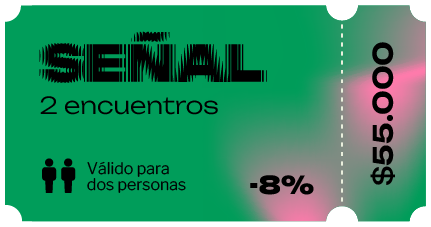
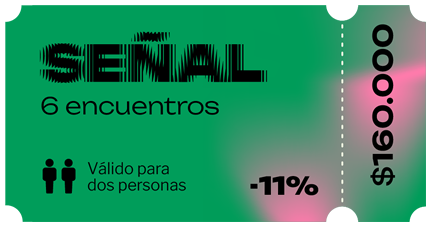
updste add tickets

diff --git a/src/componentes/Section5.js b/src/componentes/Section5.js
@@ -76,7 +76,7 @@ function Section({ minHeight }) {
 
         <div className="w-full">
           <div className="grid sd:grid-cols-1 sd:grid-cols-1 lg:grid-cols-2 gap-x-20 gap-y-0  sm:py-3 sm:px-20 sm:mx-20">
-            <div className="p-4 text-center">
+          <div className="p-4 text-center">
               <a
                 href="https://tickets.xn--viveseal-i3a.cl/producto/ticket-10-encuentros-2/"
                 target="_blank"
@@ -84,7 +84,7 @@ function Section({ minHeight }) {
               >
                 <img
                   className=""
-                  src="./images/ticketRosa.png"
+                  src="./images/ticket1.png"
                   alt="imagen de fondo"
                   style={{
                     width: "100%",
@@ -100,7 +100,7 @@ function Section({ minHeight }) {
                     </span>
                     <div className="text-black  font-unbounded  ml-2 font-normal text-left text-xs sd:text-xl md:text-xl lg:text-xl xl:text-xl ">
                     Acceso para dos personas a{" "}
-                      <span className="font-bold">3 encuentros</span> SEÑAL consecutivos.
+                      <span className="font-bold">programa completo</span> SEÑAL.
                     </div>
                   </div>
                   <div className="flex items-start">
@@ -108,13 +108,24 @@ function Section({ minHeight }) {
                       <MdTripOrigin />
                     </span>
                     <div className="text-black  font-unbounded  ml-2 font-normal text-left text-xs sd:text-xl md:text-xl lg:text-xl xl:text-xl ">
-                      <span className="font-bold">Visitas Antenna</span>{" "}
-                      seleccionadas.
+                   {" "}
+                      <span className="font-bold"> Visitas Antenna</span> seleccionadas.
                     </div>
-                  </div>
+                  </div>                  
+                  <div className="flex items-start">
+                    <span className="material-icons w-3 h-3  mt-0 sd:w-6 sd:h-6  md:w-6 md:h-6  lg:w-6 lg:h-6  xl:w-6 sd:mt-1.5 md:mt-1.5 lg:mt-1.5 xl:mt-1.5 xl:h-6 text-pink-400">
+                      <MdTripOrigin />
+                    </span>
+                    <div className="text-black  font-unbounded  ml-2 font-normal text-left text-xs sd:text-xl md:text-xl lg:text-xl xl:text-xl ">
+                    Acceso a {" "}
+                      <span className="font-bold">fiesta aniversario SEÑAL</span>.
+                    </div>
+                  </div>                 
                 </div>
               </div>
             </div>
+
+
             <div className="p-4 text-center">
               <a
                 href="https://tickets.xn--viveseal-i3a.cl/producto/ticket-6-encuentros/"
@@ -138,13 +149,57 @@ function Section({ minHeight }) {
                       <MdTripOrigin />
                     </span>
                     <div className="text-black  font-unbounded  ml-2 font-normal text-left text-xs sd:text-xl md:text-xl lg:text-xl xl:text-xl ">
-                    Acceso para dos personas a <span className="font-bold">2 encuentros</span>{" "} SEÑAL consecutivos.
+                    Acceso para dos personas a <span className="font-bold">6 encuentros</span>{" "} SEÑAL consecutivos.
                     
                     </div>
                   </div>
                 </div>
+
+                <div className="flex items-start">
+                    <span className="material-icons w-3 h-3  mt-0 sd:w-6 sd:h-6  md:w-6 md:h-6  lg:w-6 lg:h-6  xl:w-6 sd:mt-1.5 md:mt-1.5 lg:mt-1.5 xl:mt-1.5 xl:h-6 text-green-700">
+                      <MdTripOrigin />
+                    </span>
+                    <div className="text-black  font-unbounded  ml-2 font-normal text-left text-xs sd:text-xl md:text-xl lg:text-xl xl:text-xl ">
+                   {" "}
+                      <span className="font-bold"> Visitas Antenna</span> seleccionadas.
+                    </div>
+                  </div>  
+
               </div>
             </div>
+
+            <div className="p-4 text-center">
+              <a
+                href="https://tickets.xn--viveseal-i3a.cl/producto/ticket-10-encuentros-2/"
+                target="_blank"
+                alt="" rel="noreferrer"
+              >
+                <img
+                  className=""
+                  src="./images/ticketRosa.png"
+                  alt="imagen de fondo"
+                  style={{
+                    width: "100%",
+                    height: "auto",
+                  }}
+                />
+              </a>
+              <div>
+                <div className="grid grid-cols-1 gap-4 mx-1 my-1">
+                  <div className="flex items-start">
+                    <span className="material-icons w-3 h-3  mt-0 sd:w-6 sd:h-6  md:w-6 md:h-6  lg:w-6 lg:h-6  xl:w-6 sd:mt-1.5 md:mt-1.5 lg:mt-1.5 xl:mt-1.5 xl:h-6 text-[#4db0b0]">
+                      <MdTripOrigin />
+                    </span>
+                    <div className="text-black  font-unbounded  ml-2 font-normal text-left text-xs sd:text-xl md:text-xl lg:text-xl xl:text-xl ">
+                    Acceso para dos personas a{" "}
+                      <span className="font-bold">3 encuentros</span> SEÑAL consecutivos.
+                    </div>
+                  </div>
+                 
+                </div>
+              </div>
+            </div>
+
             <div className="p-4 text-center">
               <a
                 href="https://tickets.xn--viveseal-i3a.cl/producto/ticket-3-encuentros/"
@@ -181,6 +236,9 @@ function Section({ minHeight }) {
                 </div>
               </div>
             </div>
+
+
+            
             <div className="p-4 text-center">
               <a
                 href="https://tickets.xn--viveseal-i3a.cl/producto/ticket-1-encuentro/"

diff --git a/src/componentes/Section3.js b/src/componentes/Section3.js
@@ -118,7 +118,7 @@ function Section({ minHeight }) {
                 Descubre a dos artistas de distintas generaciones, el reconocido artista Bernardo Oyarzún y la ganadora del Premio Arte Joven LarrainVial 2023, Macarena Cuevas.</p>
                 
                 <p className="text-xs sd:text-sm md:text-sm lg:text-sm xl:text-sm mt-3 sd:text-2xl md:text-2xl xl:text-2xl text-left font-libre-franklin sd:mt-3 md:mt-3 lg:mt-3">
-                Música por confirmar.</p>
+                Música a cargo de Thomas Woodroffe.</p>
               </div>
               <a href="#tickets"><button className="absolute bottom-0 left-0 mx-7 my-7 flex items-center justify-center px-6 py-1 text-black text-normal sd:text-normal md:text-2xl lg:text-2xl xl:text-2xl font-bold rounded-full border-2 border-black mt-4 font-unbounded hover:text-white hover:border-white">
               Participa &nbsp;&nbsp;&nbsp;&nbsp;&nbsp;
